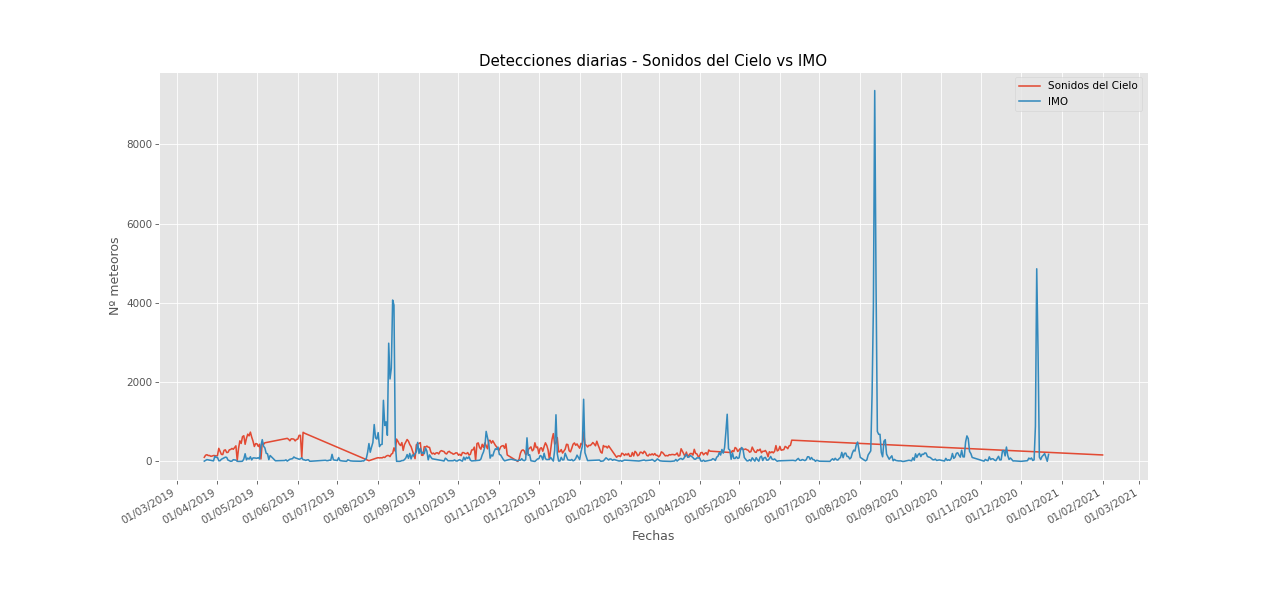
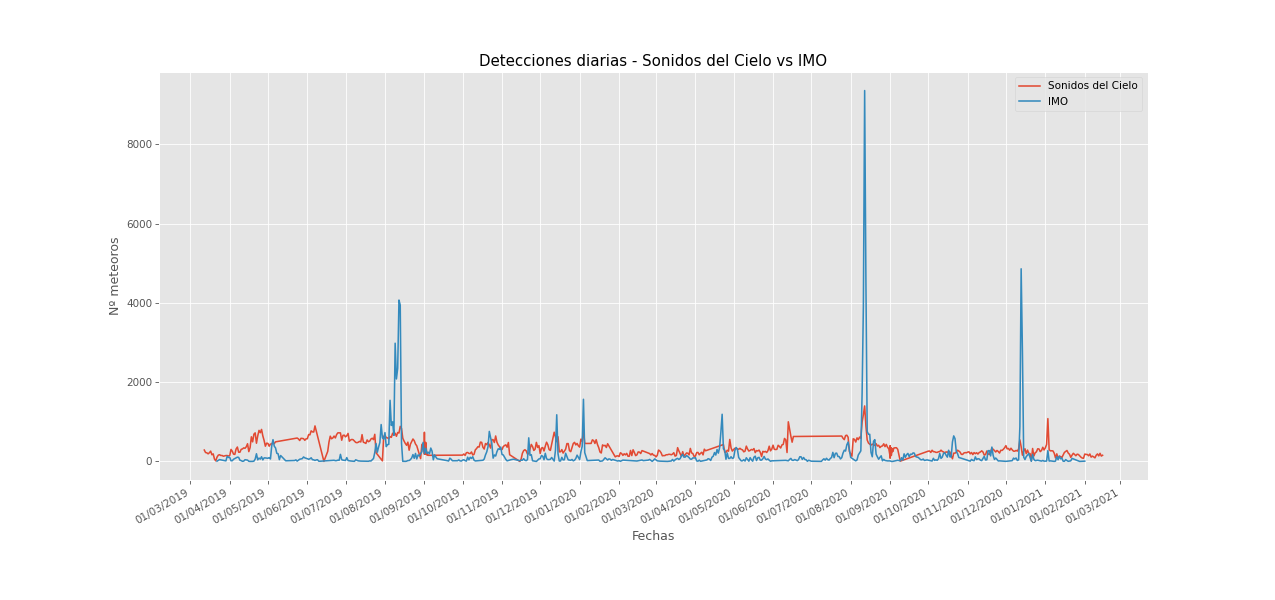
actualizo rutas
actualizo el nombre de los archivos en la comparativa para que funcione bien

diff --git a/comparativa.py b/comparativa.py
@@ -7,17 +7,17 @@ import pandas as pd
 
 # Lectura de datos con Pandas
 # Datos Sonidos del Cielo
-data_sdc = pd.read_csv('results\csvs\sdc_meteorspd.csv')
+data_sdc = pd.read_csv('results\csvs\sdc_clear_daily.csv')
 data_sdc['date'] = pd.to_datetime(data_sdc['date'])
 data_sdc.sort_values('date', inplace=True) #ordena los datos por fecha
 dates_sdc = data_sdc['date']
 mets_sdc = data_sdc['meteors']
 # Datos IMO
 data_imo = pd.read_csv('results\csvs\imo_meteorspd.csv')
-data_imo['Date'] = pd.to_datetime(data_imo['Date']) #convierte str a formato date
-data_imo.sort_values('Date', inplace=True) #ordena los datos por fecha
-dates_imo = data_imo['Date']
-mets_imo = data_imo['Meteors']
+data_imo['date'] = pd.to_datetime(data_imo['date']) #convierte str a formato date
+data_imo.sort_values('date', inplace=True) #ordena los datos por fecha
+dates_imo = data_imo['date']
+mets_imo = data_imo['meteors']
 
 # Características del gráfico
 plt.style.use('ggplot') #estilo
